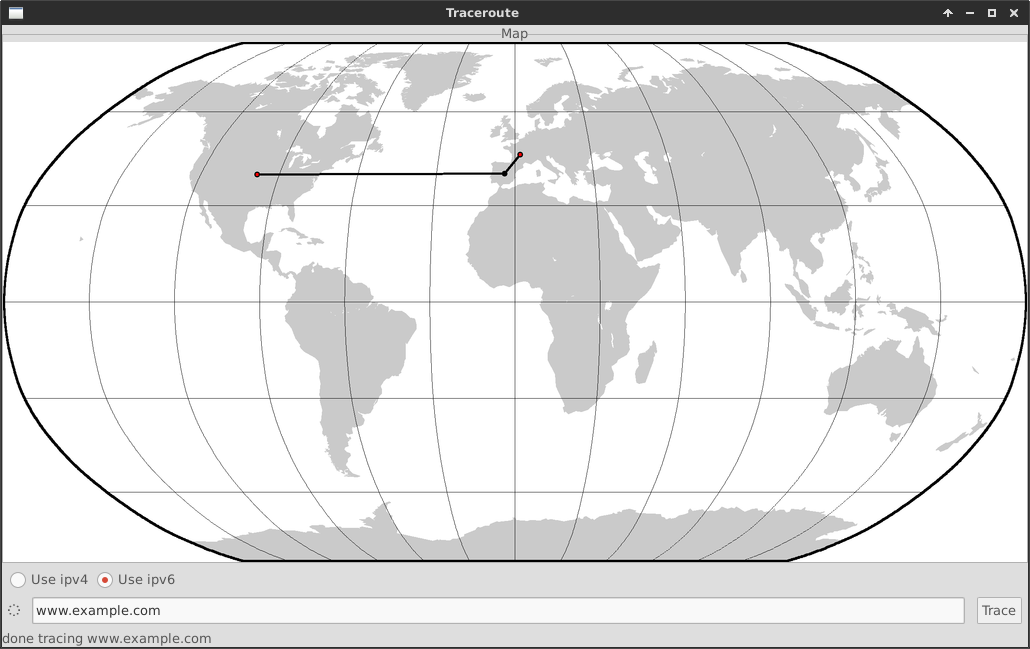
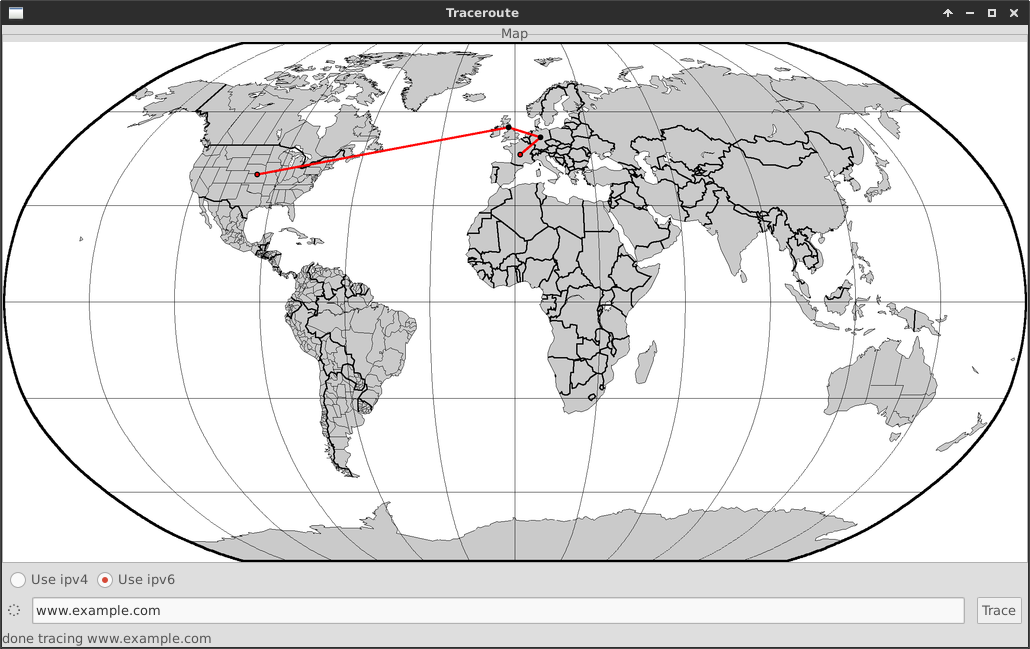
draw boundaries

diff --git a/pyvisualtrace.py b/pyvisualtrace.py
@@ -149,8 +149,10 @@ def locate_nodes(ip_list):
 def trace_map():
     ps_file = open("map.ps", "w")
     os.environ['PATH'] = "/usr/local/sbin:/usr/local/bin:/usr/sbin:/usr/bin:/sbin:/bin:/usr/lib/gmt/bin"
-    ps_map = subprocess.check_output(['pscoast', '-Rd', '-JN0/20c', '-Bg30', '-Dc', '-A10000', '-Ggray', '-P', '-X0.5c', '-Y10c', '-K'])
-    ps_lines = subprocess.check_output(['psxy', 'points.dat', '-O', '-Rd', '-JN', '-Dc', '-A10000', '-P', '-Wthick', '-K'])
+    ps_map = subprocess.check_output(['pscoast', '-W', '-N1/thinner',
+     '-N2/faint', '-Rd', '-JN0/20c', '-Bg30', '-Dc', 
+     '-A10000', '-Ggray', '-P', '-X0.5c', '-Y10c', '-K'])
+    ps_lines = subprocess.check_output(['psxy', 'points.dat', '-O', '-Rd', '-JN', '-Dc', '-A10000', '-P', '-Wthick/red', '-K'])
     ps_points = subprocess.check_output(['psxy', 'points.dat', '-O', '-Rd', '-JN', '-Dc', '-A10000', '-P', '-Sc', '-G0', '-K'])
     ps_start_stop = subprocess.check_output(['psxy', 'start_stop.dat', '-O', '-Rd', '-JN', '-Dc', '-A10000', '-P', '-Sc0.05', '-G255/0/0'])
     ps_file.write(ps_map)
